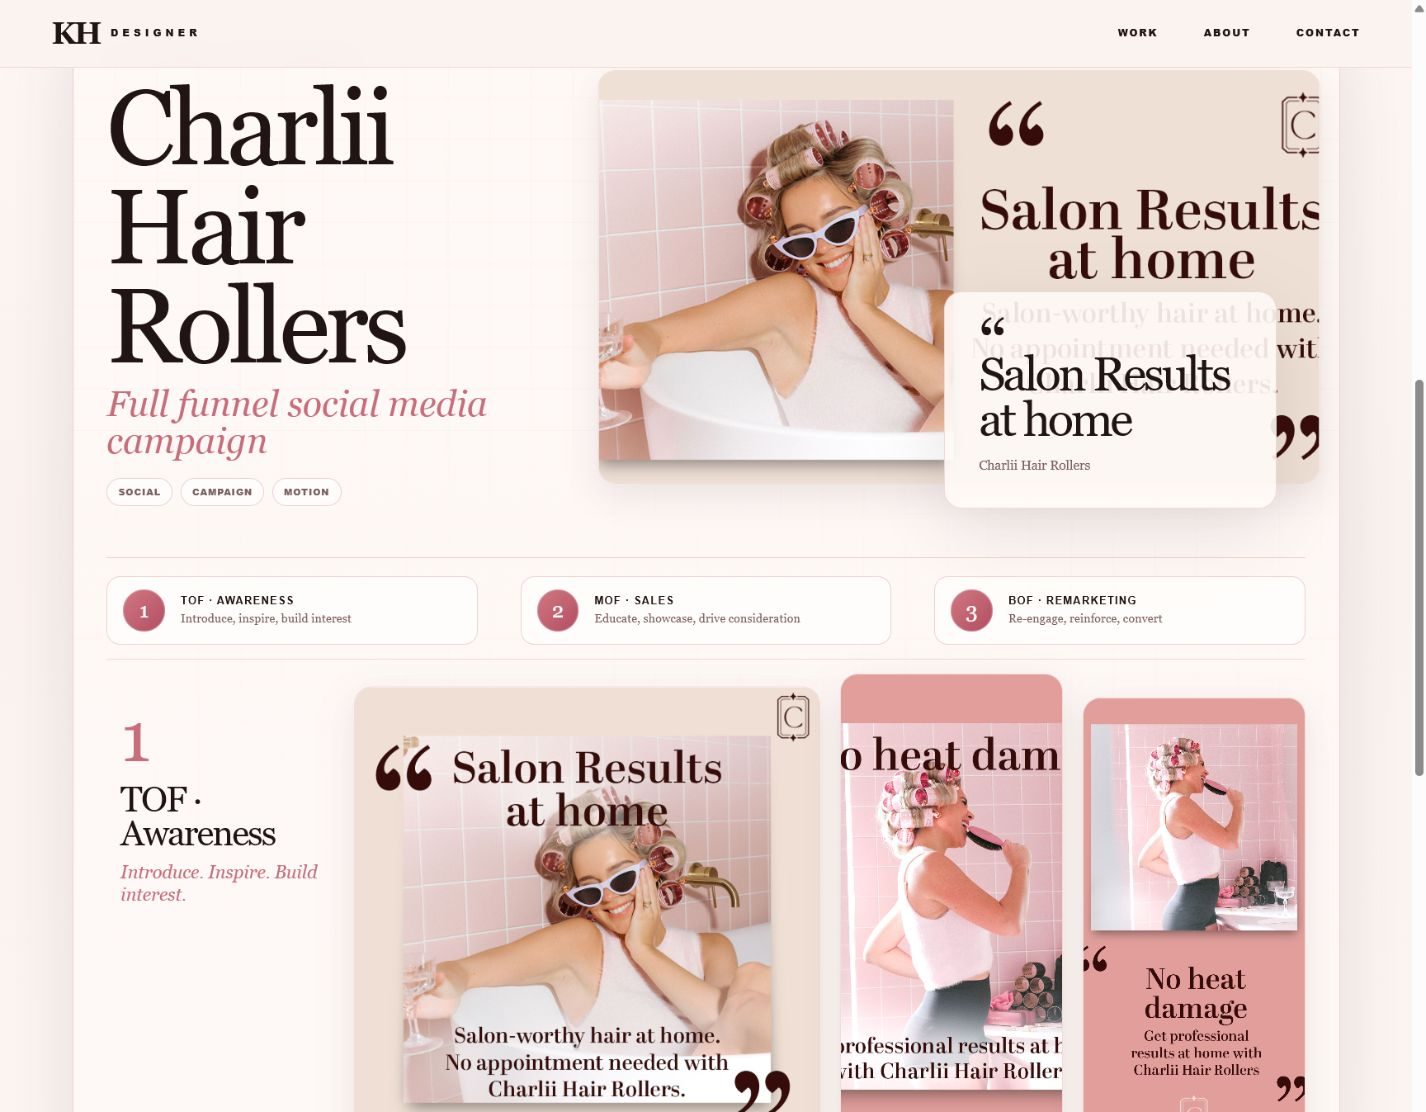
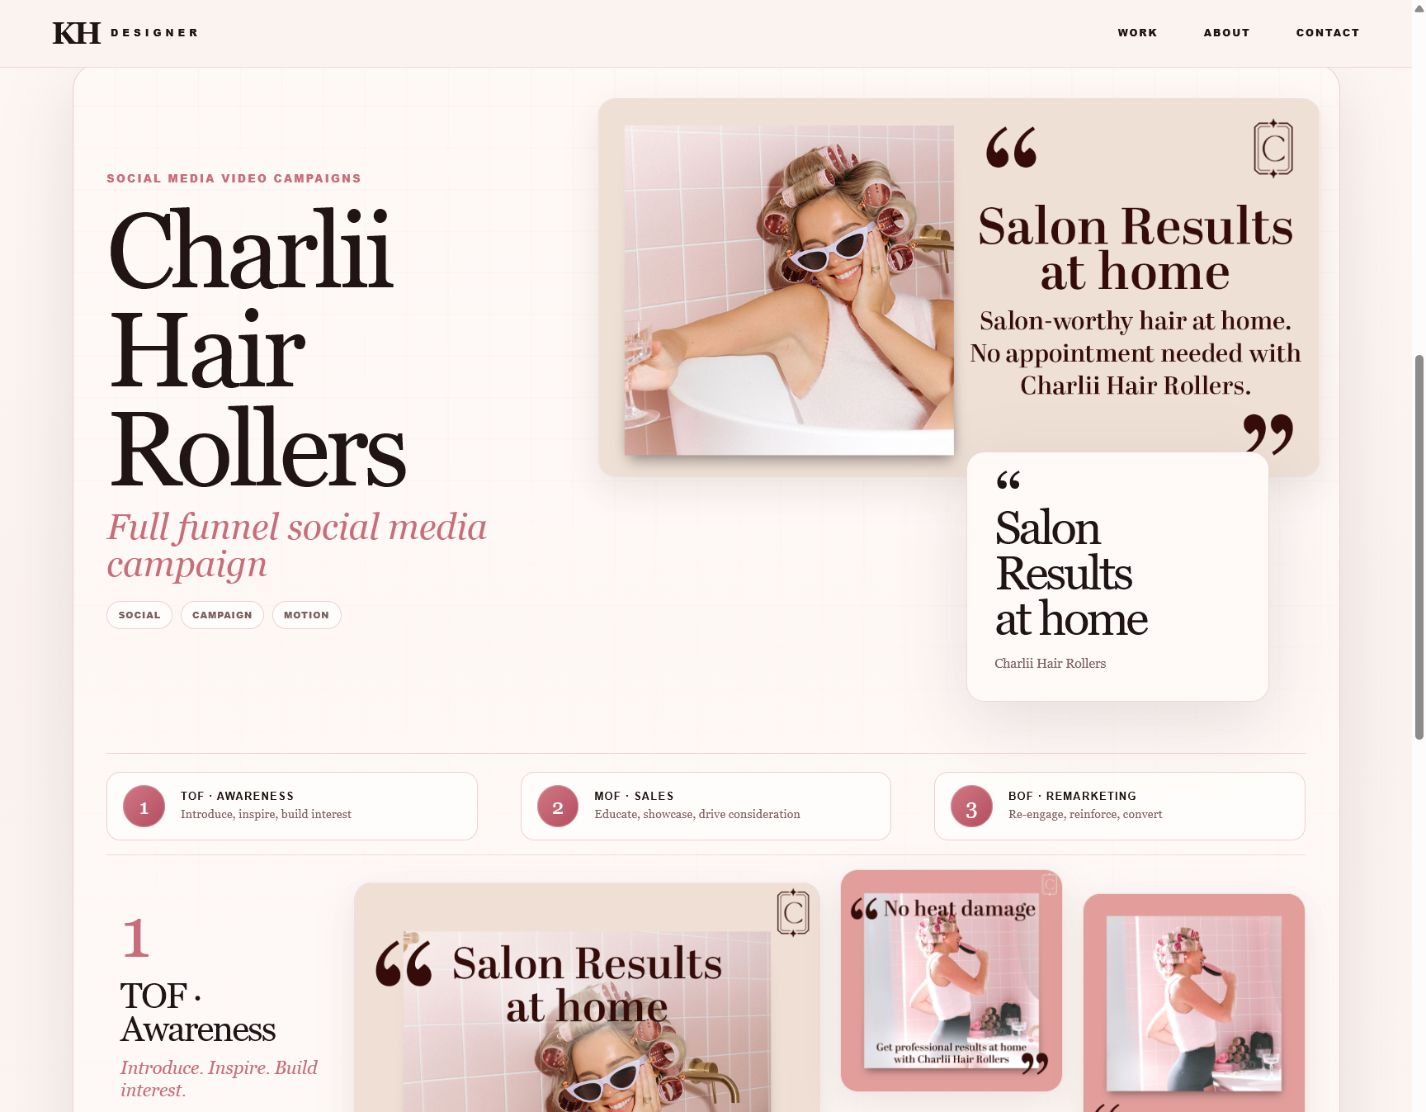
Refine Charlii media framing

diff --git a/src/styles.css b/src/styles.css
@@ -63,10 +63,11 @@ h1, h2, h3 { font-weight: 500; letter-spacing: -.045em; line-height: .94; }
 .discipline-tags span { padding: 7px 11px; border: 1px solid var(--rose-line); border-radius: 999px; color: var(--muted); background: rgba(255,255,255,.55); font-family: Arial, Helvetica, sans-serif; font-size: 9px; font-weight: 800; letter-spacing: .1em; text-transform: uppercase; }
 .hero-composition { min-height: 350px; position: relative; }
 .media-frame { margin: 0; overflow: hidden; border: 1px solid rgba(236, 209, 207, .75); border-radius: var(--radius); background: #fff; box-shadow: var(--soft-shadow); }
-.media-frame img, .media-frame video { width: 100%; height: 100%; object-fit: cover; transition: transform .7s ease; }
+.media-frame img { width: 100%; height: auto; object-fit: contain; transition: transform .7s ease; }
+.media-frame video { width: 100%; height: 100%; object-fit: cover; transition: transform .7s ease; }
 .media-frame:hover img, .media-frame:hover video { transform: scale(1.025); }
-.hero-card { height: clamp(260px, 33vw, 418px); transform: translateX(2%); }
-.quote-card { width: min(46%, 390px); min-height: 150px; padding: clamp(18px, 3vw, 34px); position: absolute; right: 4%; bottom: -6%; display: flex; flex-direction: column; justify-content: center; border: 1px solid rgba(236, 209, 207, .8); border-radius: var(--radius); background: rgba(255,250,247,.9); box-shadow: var(--shadow); }
+.hero-card { transform: translateX(2%); }
+.quote-card { width: min(42%, 340px); min-height: 132px; margin: -26px 5% 0 auto; padding: clamp(17px, 2.5vw, 28px); position: relative; z-index: 2; display: flex; flex-direction: column; justify-content: center; border: 1px solid rgba(236, 209, 207, .8); border-radius: var(--radius); background: #fffaf7; box-shadow: var(--shadow); }
 .quote-card span { height: 22px; color: var(--ink); font-size: 70px; line-height: .55; }
 .quote-card p { margin: 4px 0 14px; font-size: clamp(24px, 3.5vw, 48px); line-height: .95; letter-spacing: -.055em; }
 .quote-card small { color: var(--muted); font-size: 13px; line-height: 1.4; }
@@ -82,7 +83,7 @@ h1, h2, h3 { font-weight: 500; letter-spacing: -.045em; line-height: .94; }
 .stage-composition aside span { margin-bottom: 18px; width: auto; height: auto; color: var(--rose); background: none; box-shadow: none; font-size: clamp(44px, 5vw, 74px); line-height: .8; justify-content: flex-start; }
 .stage-composition h3 { margin: 0 0 12px; font-size: clamp(25px, 2.6vw, 36px); }
 .stage-composition aside p { margin: 0; color: var(--rose); font-size: 18px; font-style: italic; line-height: 1.25; }
-.stage-composition .media-frame { min-height: 208px; }
+.stage-composition .media-frame { min-height: 0; align-self: start; }
 .stage-composition .span-2 { grid-column: span 2; }
 .portrait-card { min-height: 300px; }
 .dark-card { background: #2a1716; }
@@ -123,7 +124,7 @@ footer { min-height: 86px; padding: 24px clamp(18px, 4vw, 52px); display: flex; 
   .hero { min-height: auto; }
   .hero-note { max-width: 520px; }
   .charlii-title h2 { max-width: 720px; }
-  .quote-card { width: min(64%, 370px); }
+  .quote-card { width: min(60%, 340px); }
   .funnel-strip { grid-template-columns: 1fr; gap: 10px; }
   .stage-composition { grid-template-columns: repeat(4, minmax(0, 1fr)); }
   .stage-composition aside { grid-column: 1 / -1; padding: 12px 0 4px; display: grid; grid-template-columns: 70px 1fr; gap: 16px; align-items: center; }
@@ -149,15 +150,15 @@ footer { min-height: 86px; padding: 24px clamp(18px, 4vw, 52px); display: flex; 
   .charlii-title h2 { font-size: clamp(54px, 15vw, 74px); }
   .subtitle { font-size: 24px; }
   .hero-composition { min-height: 360px; }
-  .hero-card { height: 310px; transform: translateX(0); }
-  .quote-card { width: 78%; right: -3px; bottom: -34px; padding: 18px; }
+  .hero-card { transform: translateX(0); }
+  .quote-card { width: 76%; margin: -26px 0 0 auto; padding: 18px; }
   .quote-card p { font-size: 29px; }
   .funnel-strip { margin-top: 48px; }
   .stage-composition { grid-template-columns: repeat(2, minmax(0, 1fr)); gap: 9px; }
   .stage-composition aside { grid-column: 1 / -1; grid-template-columns: 54px 1fr; }
   .stage-composition aside p { grid-column: 1 / -1; margin-top: 0; font-size: 16px; }
   .stage-composition .span-2 { grid-column: 1 / -1; }
-  .stage-composition .media-frame { min-height: 160px; border-radius: 13px; }
+  .stage-composition .media-frame { min-height: 0; border-radius: 13px; }
   .portrait-card { min-height: 235px; }
   .lift-a, .lift-b, .lift-c { transform: none; }
   .video-rail { display: flex; overflow-x: auto; padding-bottom: 8px; scroll-snap-type: x mandatory; }
